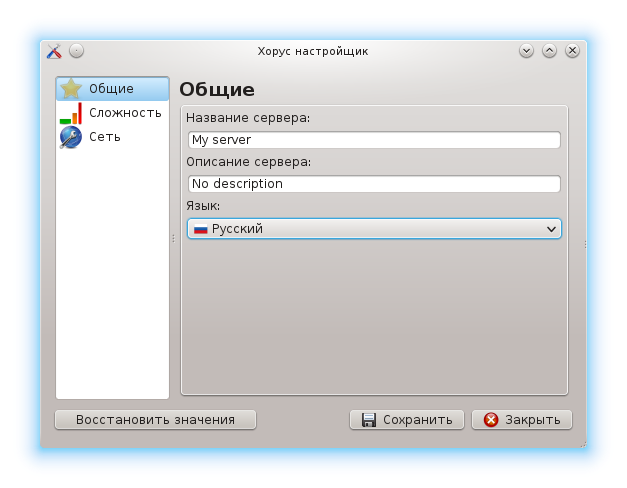
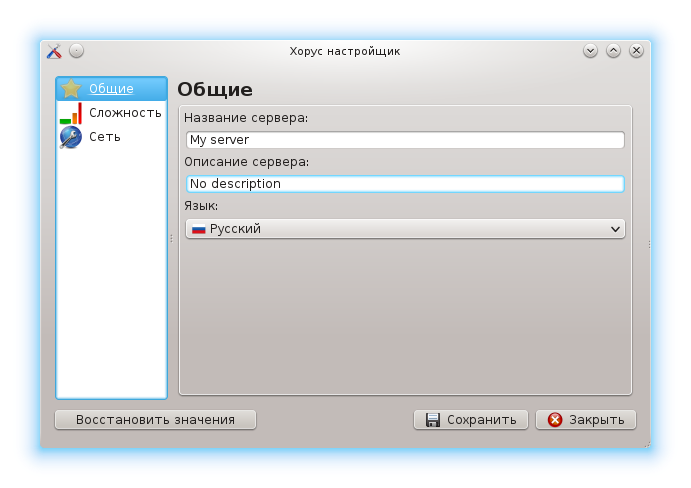
Horus Config languages examples screenhots sizes fixed.

Changed region(s): [[0.0303, 0.0922, 0.9697, 0.9221], [0.3939, 0.0922, 0.5758, 0.123]]

diff --git a/commander.html b/commander.html
@@ -616,9 +616,9 @@ received from a particular client. Interval greater than this value is considere
 				Configurator languages exmaples:
 			</p>
 
-			<div class="image_carousel" style="width: 600px; margin-top:-20px">
+			<div class="image_carousel" style="width: 700px; margin-top:-20px">
 				<div id="config_lang">
-					<img src="img/cfg/general.png"/>
+					<img src="img/cfg/general_en.png"/>
 					<img src="img/cfg/general_ru.png"/>
 				</div>
 				<div class="clearfix"></div>
